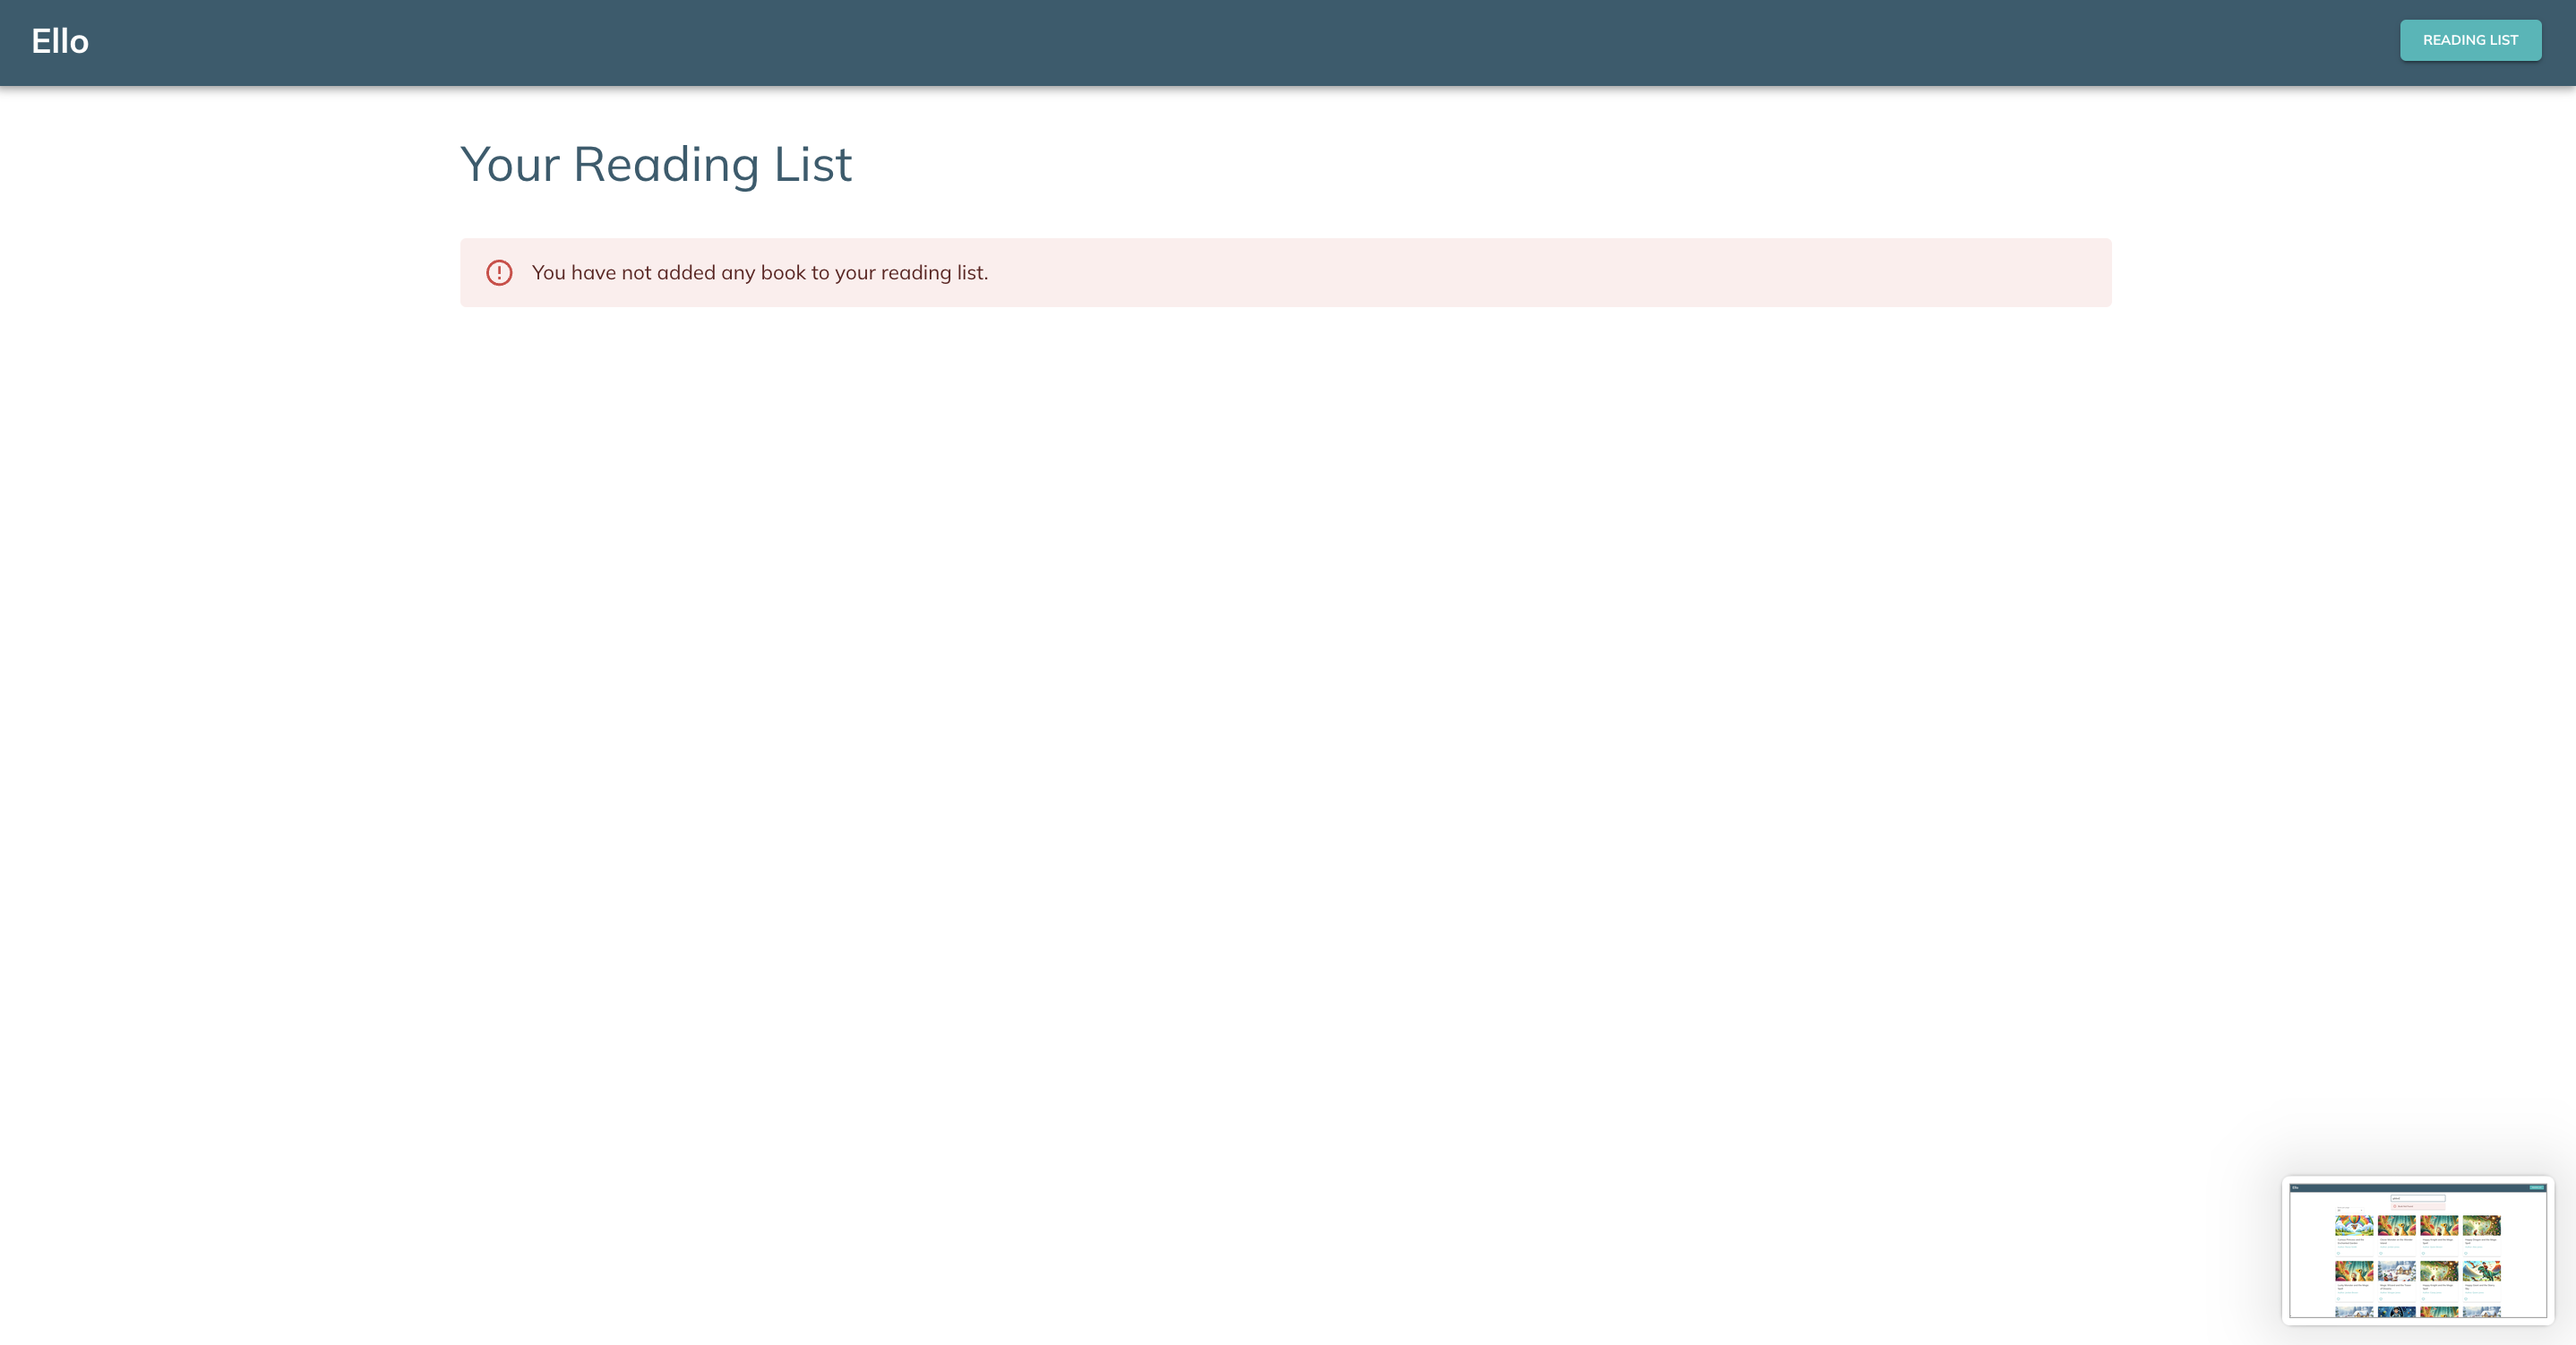
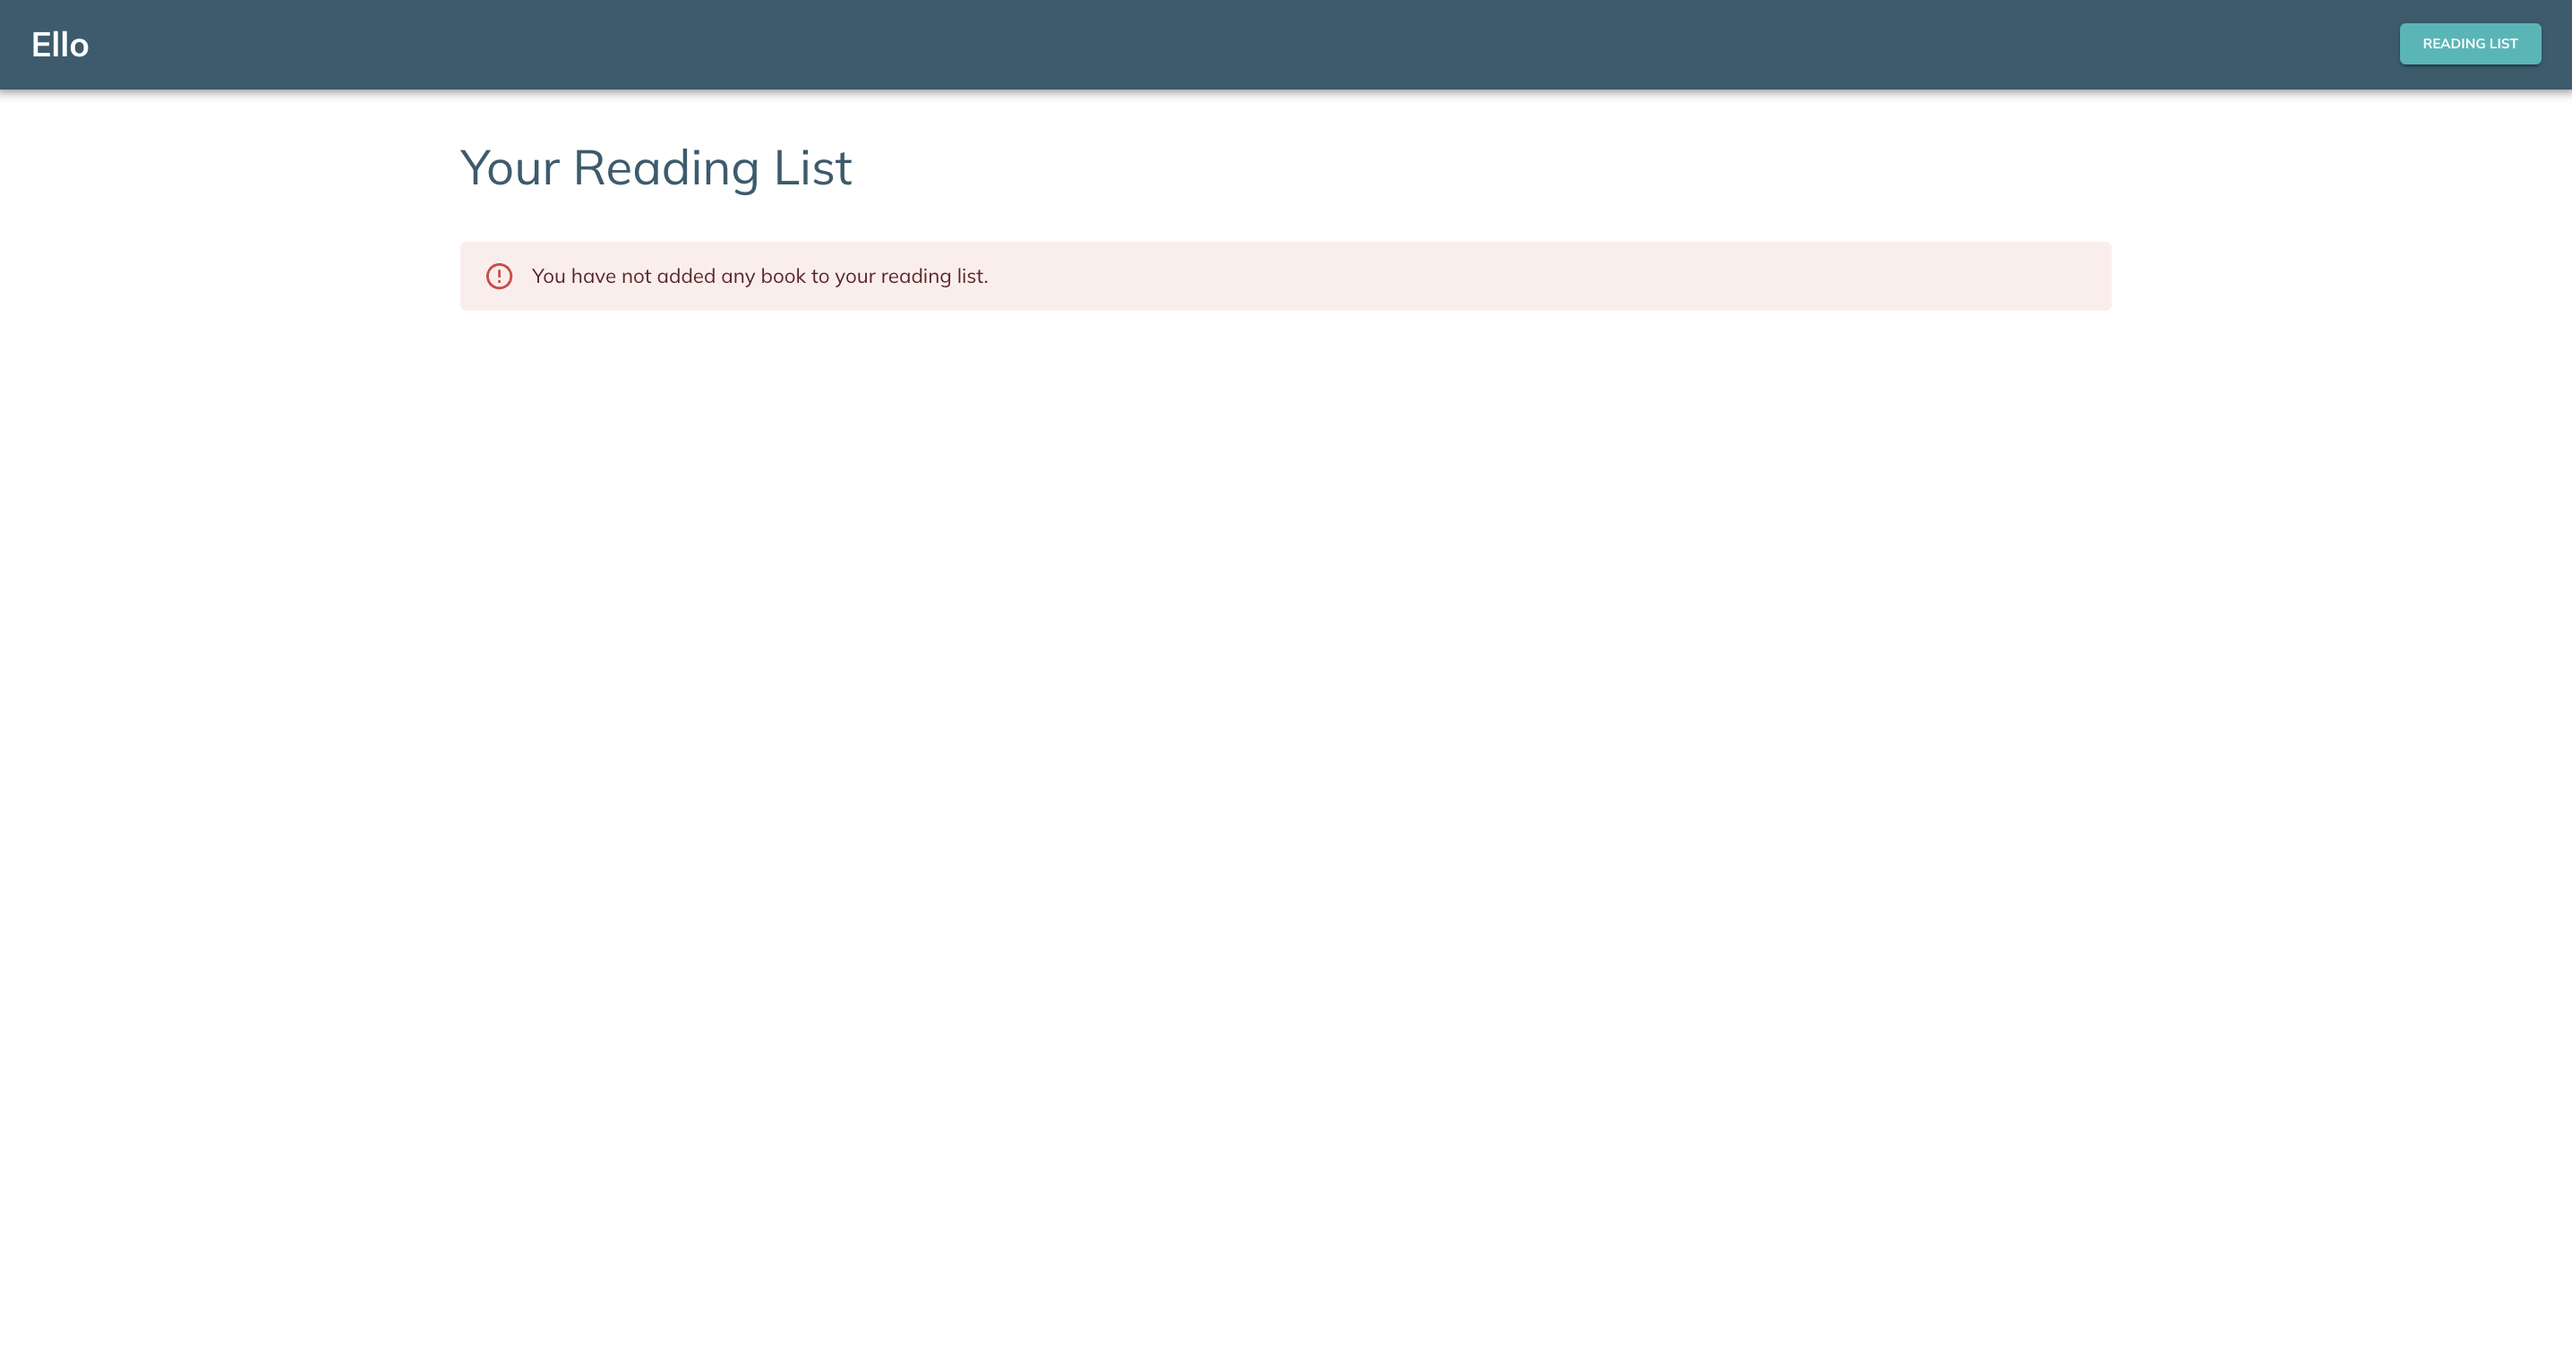
add screenshots to readme

Changed region(s): [[0.0, 0.0, 1.0, 0.1531], [0.8677, 0.8575, 1.0, 0.98], [0.1859, 0.1838, 0.3719, 0.2144]]

diff --git a/README.md b/README.md
@@ -1,85 +1,1 @@
- ![svgviewer-output](https://github.com/ElloTechnology/backend_takehome/assets/3518127/561bc8d4-bffc-4360-b9ea-61e876bcec93)
-
-
-# Ello Engineering Challenge
-
-👋 Hello,
-We are really excited about you potentially joining the team, so we designed this take home exercise to give you a taste of the challenges you may encounter in the role, and better understand what it would be like to work closely together.
-
-Thanks for taking the time, and we hope to talk with you soon!
-
-## About Ello
-
-Ello is a forward-thinking educational technology company dedicated to revolutionizing the way children learn to read. Our mission is to empower young readers with the tools they need to become proficient and passionate readers. We believe that fostering a love for reading is essential for a child's academic and personal growth.
-
-**Note:** Please don't fork this repository or create a pull request against it. Other applicants may take inspiration from it. You should create another repository for the challenge. Once the coding challenge is completed, email your solution back to our team at [fullstack2024@ello.com](mailto:fullstack2024@ello.com).
-
-
-## Challenge
-As part of our goal to have Ello impact as many children as we can, we offer an Ello web viewer product. [https://books.ello.com](https://books.ello.com/)
-
-
-We give this to certain schools for free to allow teachers to share our books with children. 
-You are building part of the teacher-facing UI for this product,
-namely the book assignment view, where teachers can assign books to students. 
-
-The view should have the following features:-
-
-1. A search bar that allows users to search for books by title.
-2. A list of search results that displays the book title, author, and a button to add the book to the students reading list.
-3. A reading list that displays all the books that the teacher has added.
-4. A button to remove a book from the reading list.
-
-You can build this view without the concept of a "student" and just have a single reading list for the teacher.
-
-### Requirements
-- Use React as the frontend framework.
-- Showcase the use of React hooks.
-- Use [material-ui](https://mui.com/material-ui/) as the component library.
-- Write your code in the `src/frontend` directory.
-- Create components as you feel is best suited for your solution
-<img width="1013" alt="Screenshot 2024-05-15 at 19 10 51" src="https://github.com/ElloTechnology/fullstack-take-home-test/assets/3518127/bc3eb7f7-489f-4304-93f4-032bbbd38c58">
-
-
-### Data
-To get access to data that you will use for this challenge you can switch into the `src/backend` folder and run
-
-```bash
-npm install
-```
-
-Then run the following command to start the server
-
-```bash
-npm start
-```
-
-This start a Graphql server at the url `http://localhost:4000/`, the server has a single query `books` that returns a list of books. 
-
-```graphql
-query Books {
-  books {
-    author
-    coverPhotoURL
-    readingLevel
-    title
-  }
-}
-```
-
-You can use this query to get the list of books to display in your frontend. You may need to adjust the `coverPhotoURL` to be a valid URL. The photos are in the `src/frontend/assets` directory.
-
-### Styling Guidelines
-- Use the "Mulish" Google font
-- You can use the following colors (You don't have to use all but you can pick and choose from here)
-<img width="961" alt="Screenshot 2024-05-14 at 17 36 40" src="https://github.com/ElloTechnology/fullstack-take-home-test/assets/3518127/15922f8f-a7c7-4033-8405-76988e95afb3">
-
-
-
-
-### You will be evaluated on
-- Code quality and organization.
-- User experience and design.
-- Beautiful and responsive UI.
-
-
+[Test Documentation](https://github.com/awa-73/fullstack-take-home-test/blob/main/frontend/README.md)

diff --git a/frontend/README.md b/frontend/README.md
@@ -11,9 +11,17 @@ This project has the following functionalities:
 For simplicity the reading list is stored in context state
 
 ## Running the application
-- Follow the instructions on the main README.md file before proceeding 
+
+### Run backend 
+
+- In the backend folder run `npm install` and `npm start`
+  
+### Run frontend
+ 
+- Change directory into the root of the frontend folder 
 - While in the root directory, run `npm install` to install dependencies 
 - To start the application run `npm start` 
+- To run tests use the command `np
 - Access the application through the url [http://localhost:3000](http://localhost:3000)
 
 
@@ -37,4 +45,30 @@ This consists of the following functionalities:
 ### Reading List
 
 - A grid view of all books that have been selected for reading list  
+
+## Screenshots
+
+### Books View Desktop
+
+![Books view desktop](https://github.com/awa-73/fullstack-take-home-test/blob/main/frontend/src/docs/desktop.png)
+
+
+### Books View Mobile
+
+![Books view desktop](https://github.com/awa-73/fullstack-take-home-test/blob/main/frontend/src/docs/mobile.png)
+
+
+### Search Error
+![Books view desktop](https://github.com/awa-73/fullstack-take-home-test/blob/main/frontend/src/docs/search-error.png)
+
+### Search With Results
+![Books view desktop](https://github.com/awa-73/fullstack-take-home-test/blob/main/frontend/src/docs/search.png)
+
+
+### Reading List
+![Books view desktop](https://github.com/awa-73/fullstack-take-home-test/blob/main/frontend/src/docs/reading-list.png)
+
+### Reading Listh With No Books
+![Books view desktop](https://github.com/awa-73/fullstack-take-home-test/blob/main/frontend/src/docs/reading-list-no-books.png)
+
 
